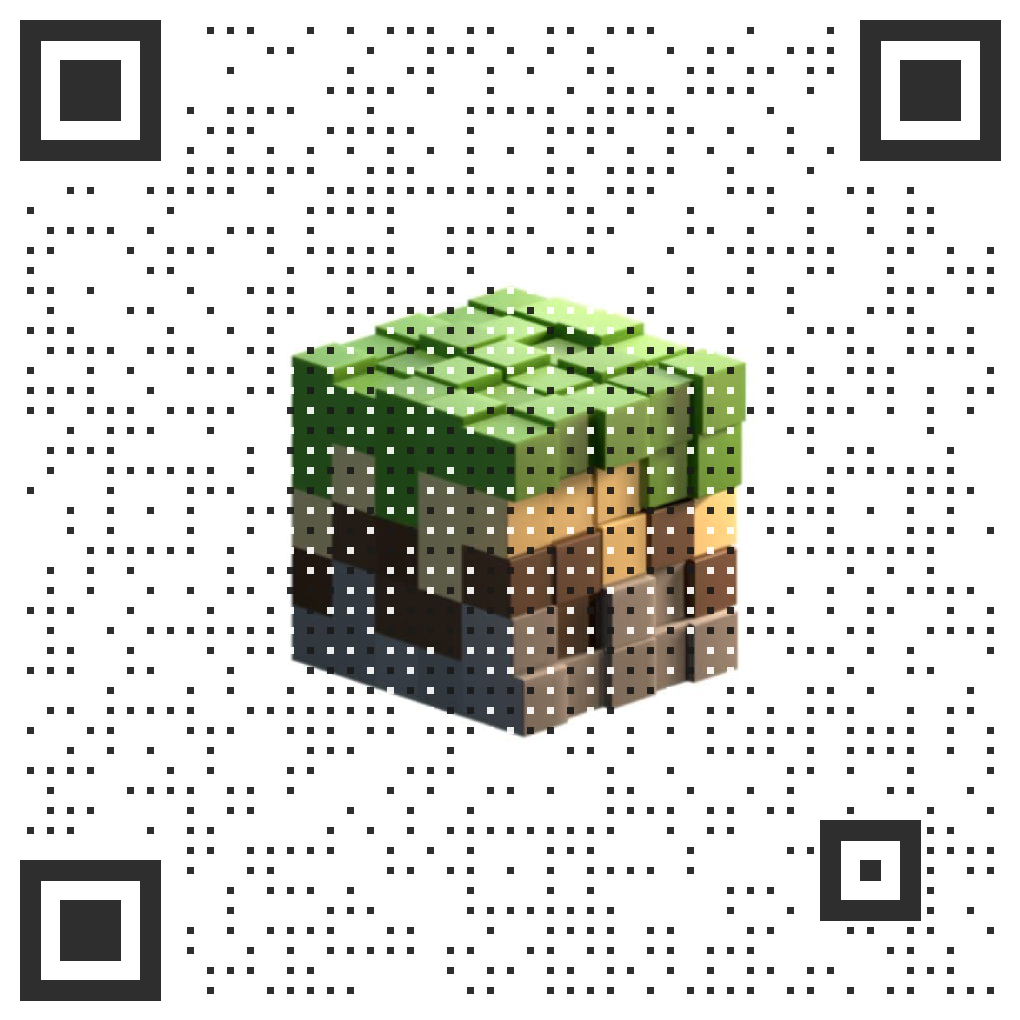
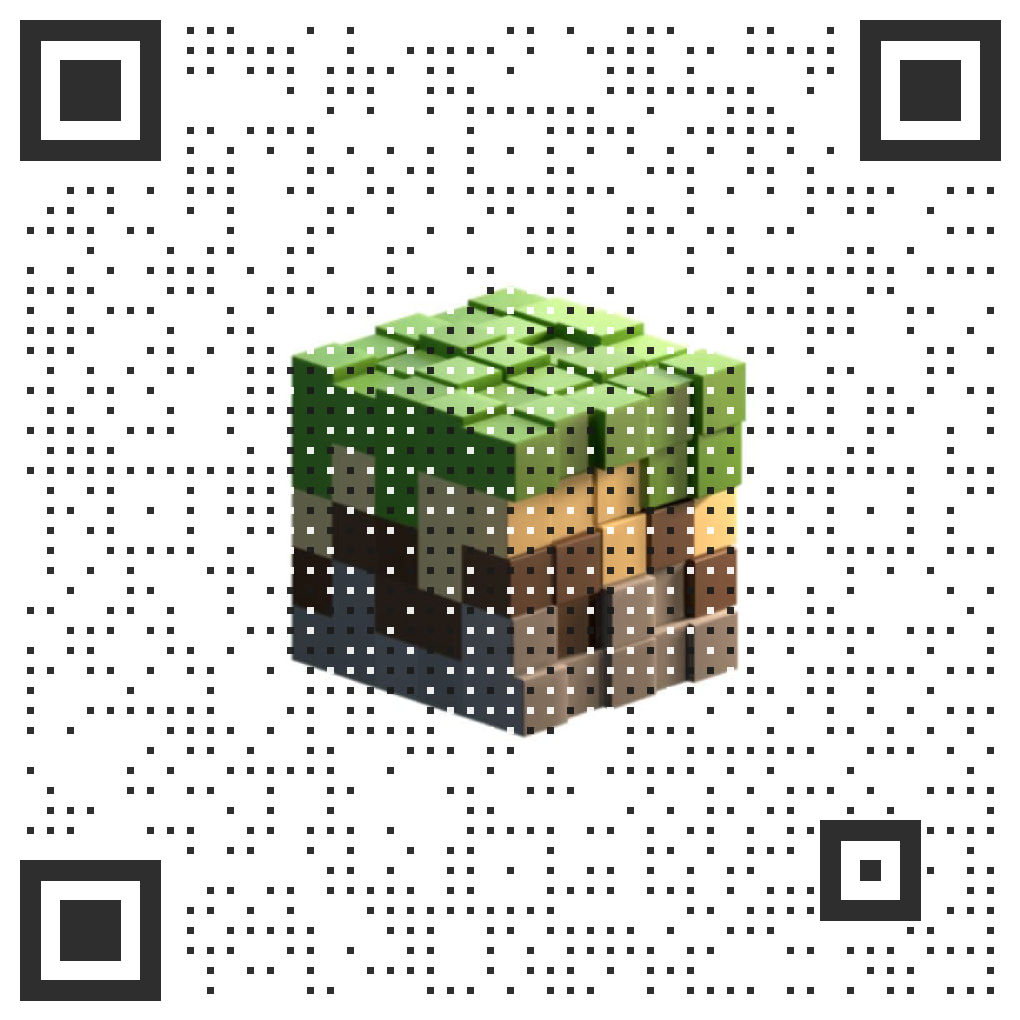
Добавлен QR к отчету CSR

diff --git a/cyclic_loading/cyclic_loading_widgets_UI.py b/cyclic_loading/cyclic_loading_widgets_UI.py
@@ -26,6 +26,7 @@ from singletons import Cyclic_models, statment
 from general.report_general_statment import save_report
 from cyclic_loading.liquefaction_potential_model import GeneralLiquefactionModel
 from general.reports import report_liquid_potential
+from authentication.request_qr import request_ege_qr
 
 import matplotlib as mpl
 mpl.rcParams['agg.path.chunksize'] = 10000
@@ -513,9 +514,12 @@ class ModelTriaxialCyclicLoading_Sliders(QWidget):
         self.layout.addWidget(self.cycles_count_box, 0, 2, alignment=Qt.AlignTop)
 
         self.csr_button = QPushButton("Потенциал разжижения")
-        self.csr_button.setFixedHeight(50)
+        self.csr_button.setFixedHeight(30)
         self.cycles_count_box_layout.addWidget(self.csr_button)
 
+        self.liquid_potential_button = QPushButton("Снижение прочности")
+        self.liquid_potential_button.setFixedHeight(30)
+        self.cycles_count_box_layout.addWidget(self.liquid_potential_button)
 
         self.layout.setColumnStretch(0, 1)
         self.layout.setColumnStretch(1, 1)
@@ -897,6 +901,9 @@ class CsrWidget(QGroupBox):
             file_name = statment.save_dir.directory + "/" + "Потенциал разжижения.pdf"
             data_customer = statment.general_data
             result = {}
+
+            qr = request_ege_qr(test_type='Потенциал разжижения', laboratory_number=', '.join(self.model.EGES.keys()))
+
             for EGE in self.model:
                 widget = getattr(self, f"CSR_{EGE}")
                 result[EGE] = {
@@ -905,7 +912,7 @@ class CsrWidget(QGroupBox):
                 }
             report_liquid_potential(
                 file_name, data_customer, os.getcwd() + "/project_data/", result,
-                version="{:.2f}".format(__version__), qr_code=None
+                version="{:.2f}".format(__version__), qr_code=qr
             )
 
             QMessageBox.about(self, "Сообщение", f"Отчет успешно сохранен: {file_name}")

diff --git a/authentication/request_qr.py b/authentication/request_qr.py
@@ -34,6 +34,37 @@ def request_qr():
     except Exception as err:
         assert True, f'Не удается подключиться к серверу georeport: {str(err)}'
 
+def request_ege_qr(test_type: str, laboratory_number: str):
+    try:
+        with requests.Session() as sess:
+            reg = sess.post('https://georeport.ru/authorization/sign-in/',
+                            data={
+                                "username": "mdgt_admin",
+                                "password": "mdgt_admin_password",
+                                "grant_type": "password",
+                                "scope": "",
+                                "client_id": "",
+                                "client_secret": ""
+                            }, verify=False, allow_redirects=False)
+
+            data = {
+                "object_number": statment.general_data.object_number,
+                "laboratory_number": laboratory_number,
+                "test_type": test_type,
+                "data": {
+                    "Дата выдачи протокола": statment.general_data.end_date.strftime('%d.%m.%Y')
+                },
+                "active": True
+            }
+            response = sess.post('https://georeport.ru/reports/report_and_qr', json=data)
+            assert response.ok, "Не удалось сгенерировать код"
+            with open("qr.png", "wb") as file:
+                file.write(response.content)
+            return "qr.png"
+    except Exception as err:
+        assert True, f'Не удается подключиться к серверу georeport: {str(err)}'
+
+
 
 if __name__=="__main__":
     with requests.Session() as sess:
